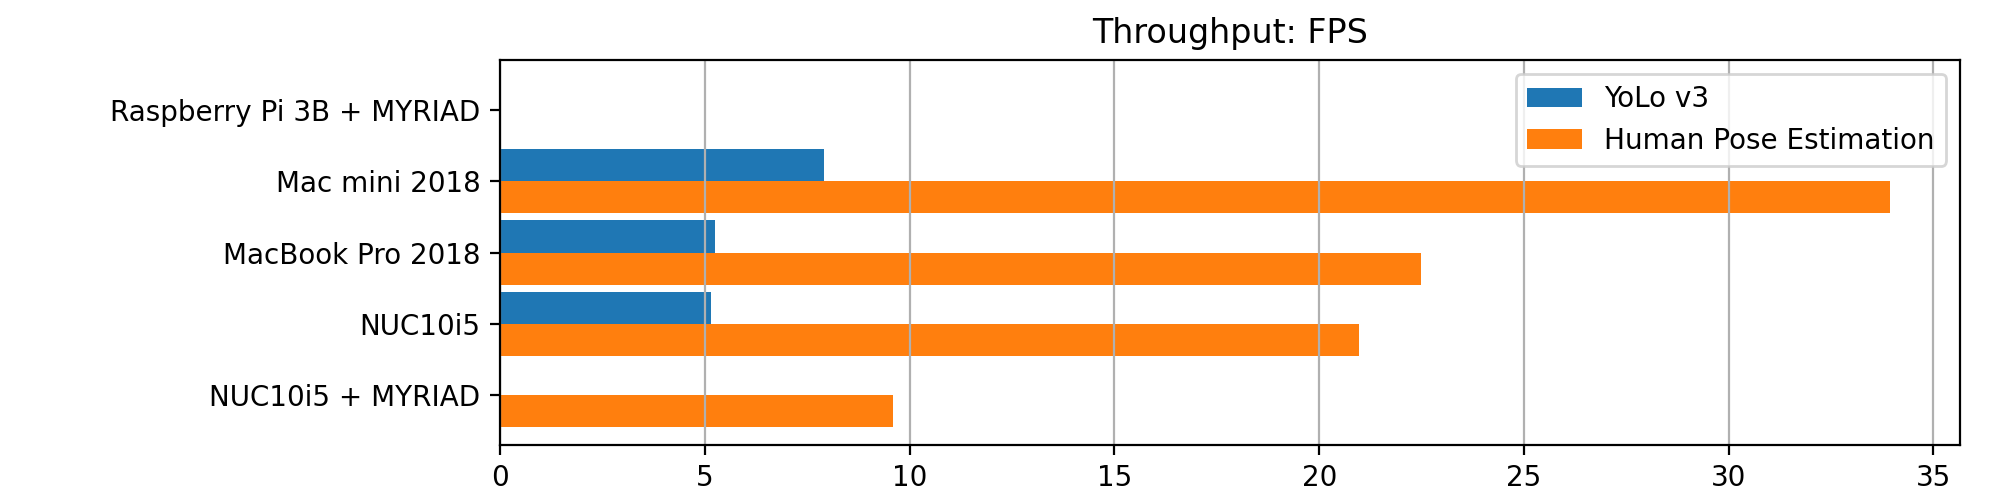
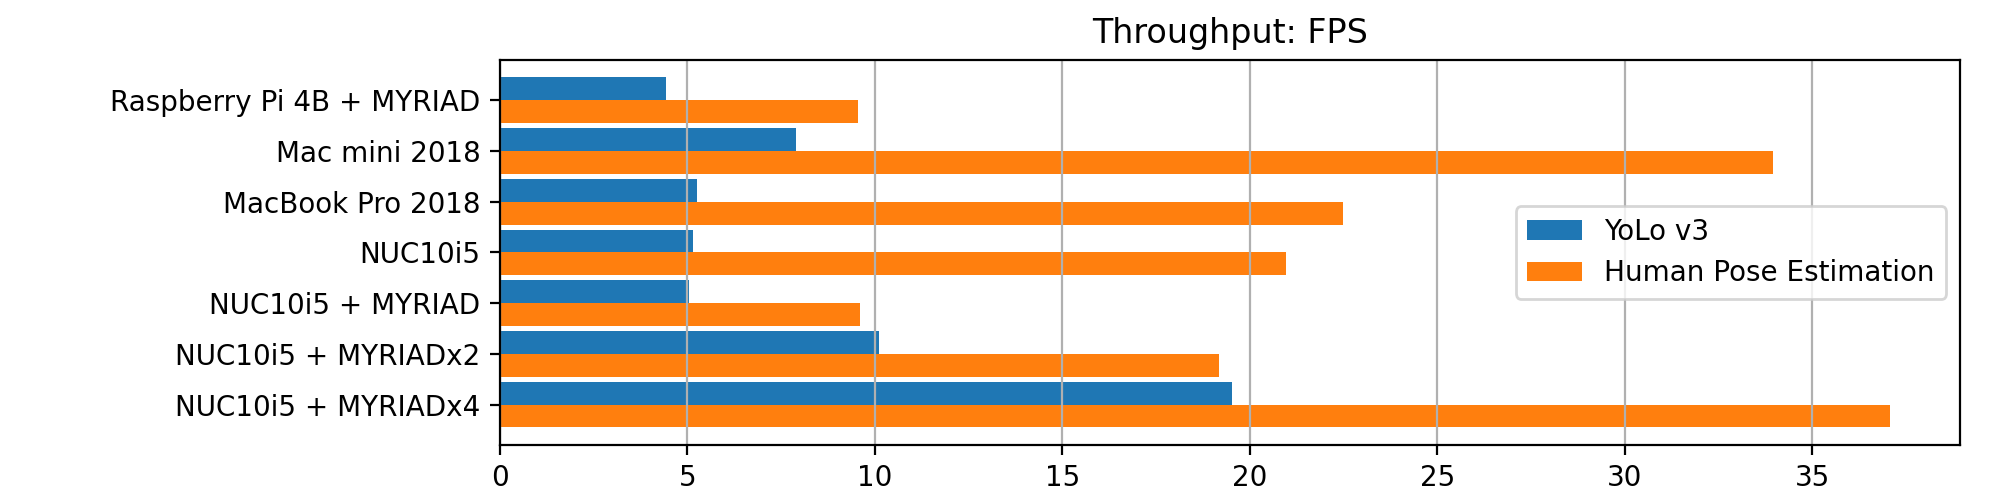
Update data

diff --git a/benchmark.py b/benchmark.py
@@ -6,7 +6,7 @@ import matplotlib.pyplot as plt
 import re
 import numpy as np
 
-csvfile = "benchmark.cvs"
+csvfile = "openvino.csv"
 
 df = pd.read_csv(csvfile, index_col=0)
 

diff --git a/README.md b/README.md
@@ -1,6 +1,7 @@
 # benchmark OpenVINO
 
 - Raspberry Pi 3B : ARM Cortex-A53, 4コア, 1.2GHz
+- Raspberry Pi 4B : ARM Cortex-A72, 4コア, 1.5GHz
 - Mac mini 2018 : Core i5-8500B, 6コア, 3.00GHz
 - MacBook Pro 2018 : Core i5-8259, 8コア, 2.30GHz
 - NUC10i5 : Core i5-10210U, 8コア, 1.60GHz
@@ -8,6 +9,8 @@
 ![table](images/table.png)
 ![3](images/3.png)
 ![2](images/2.png)
+
+※ 複数の MYRIAD の latency は計測されない。
 
 ## Reference
 
